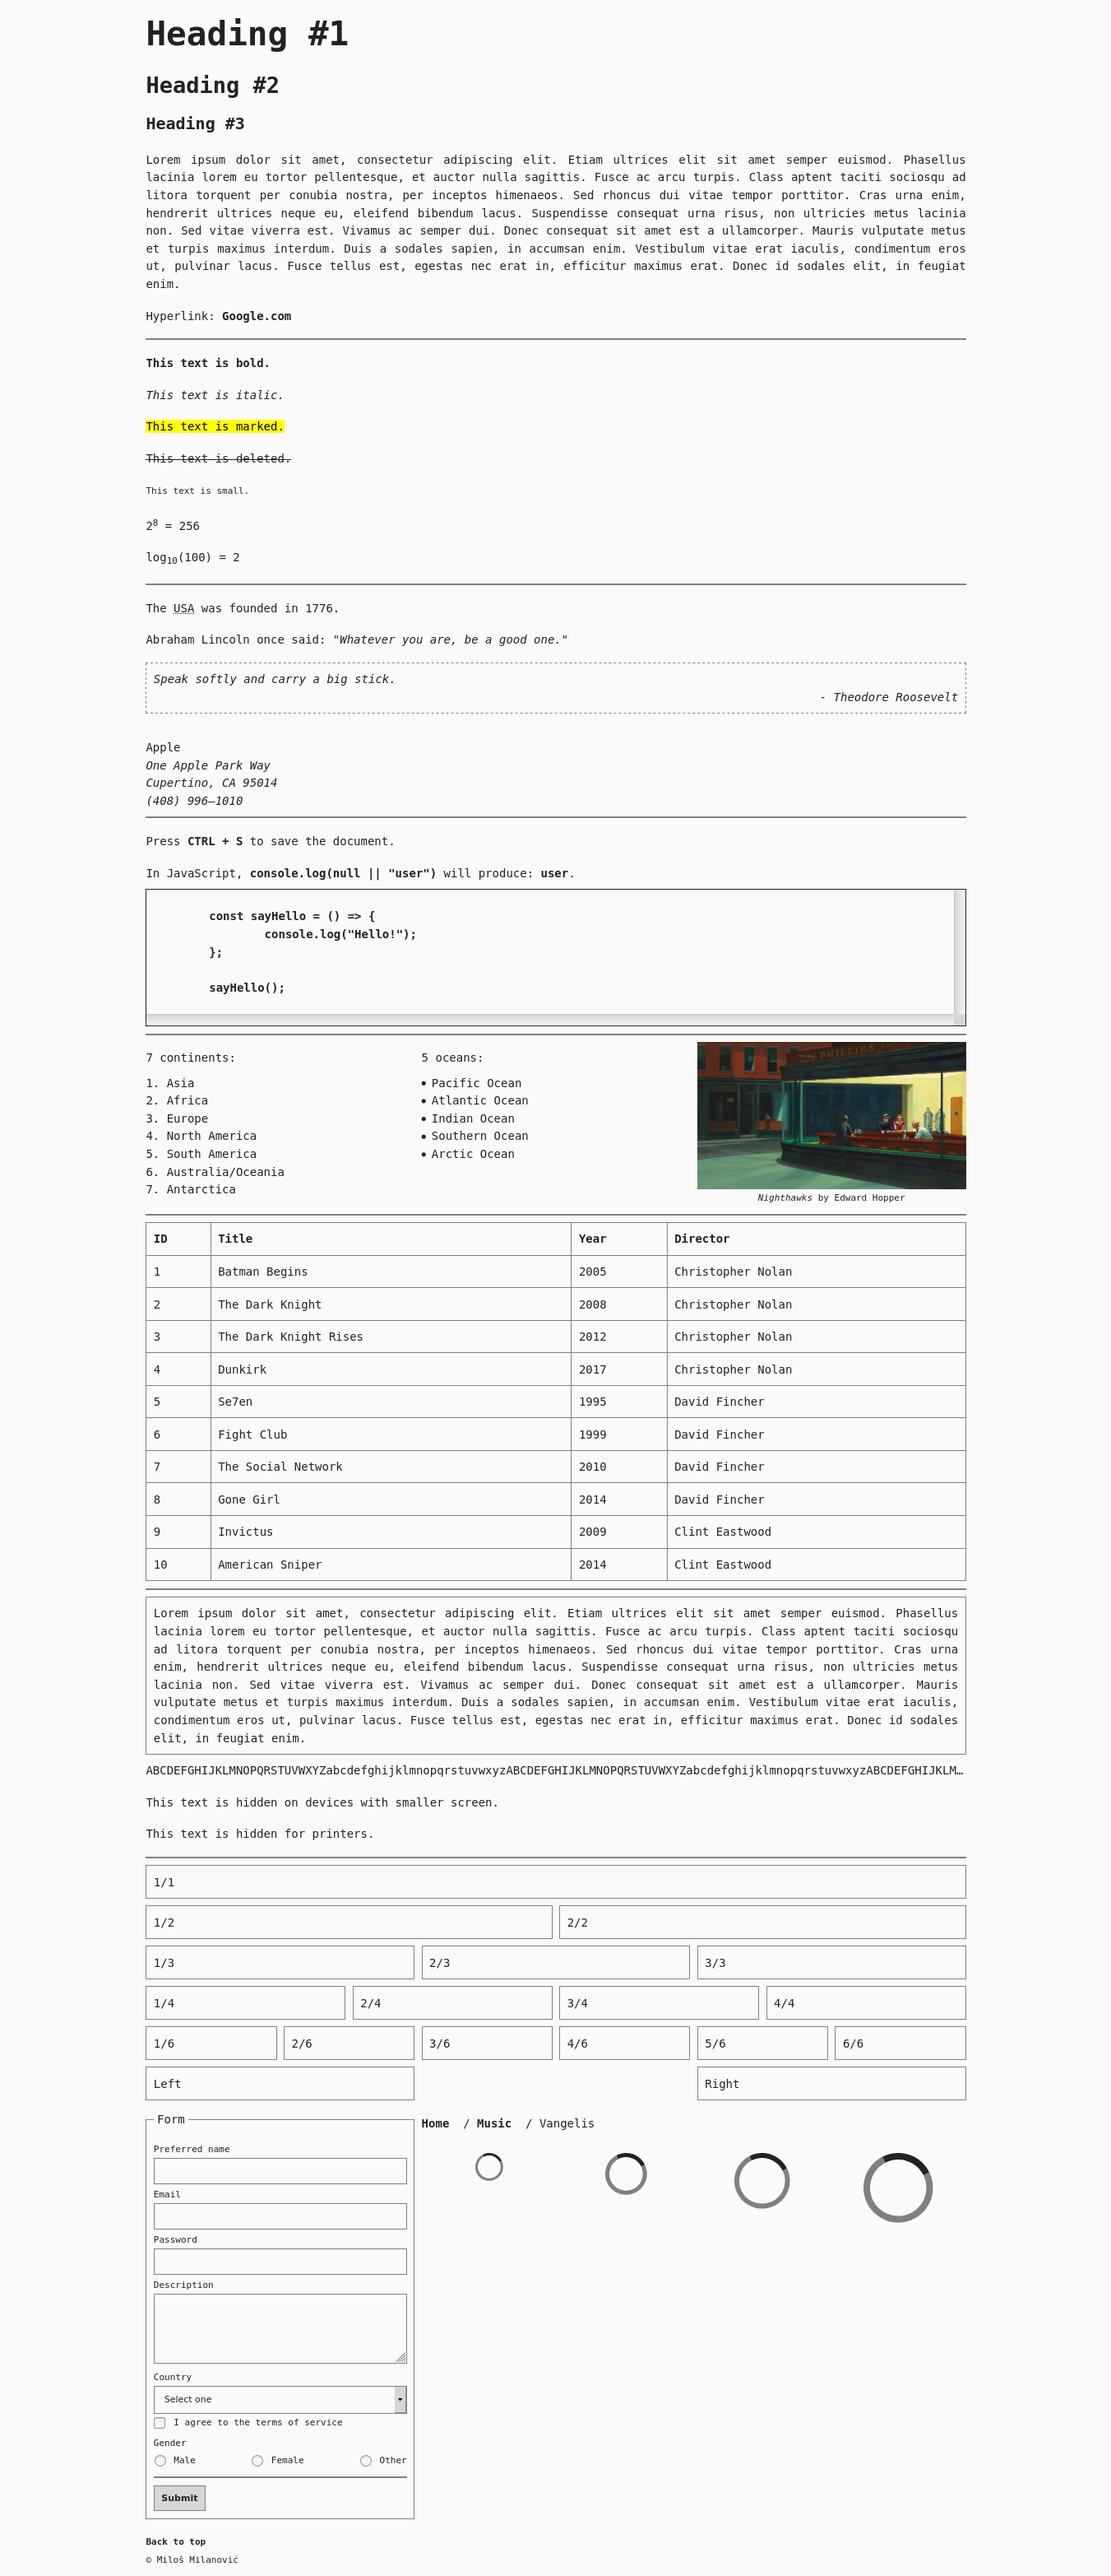
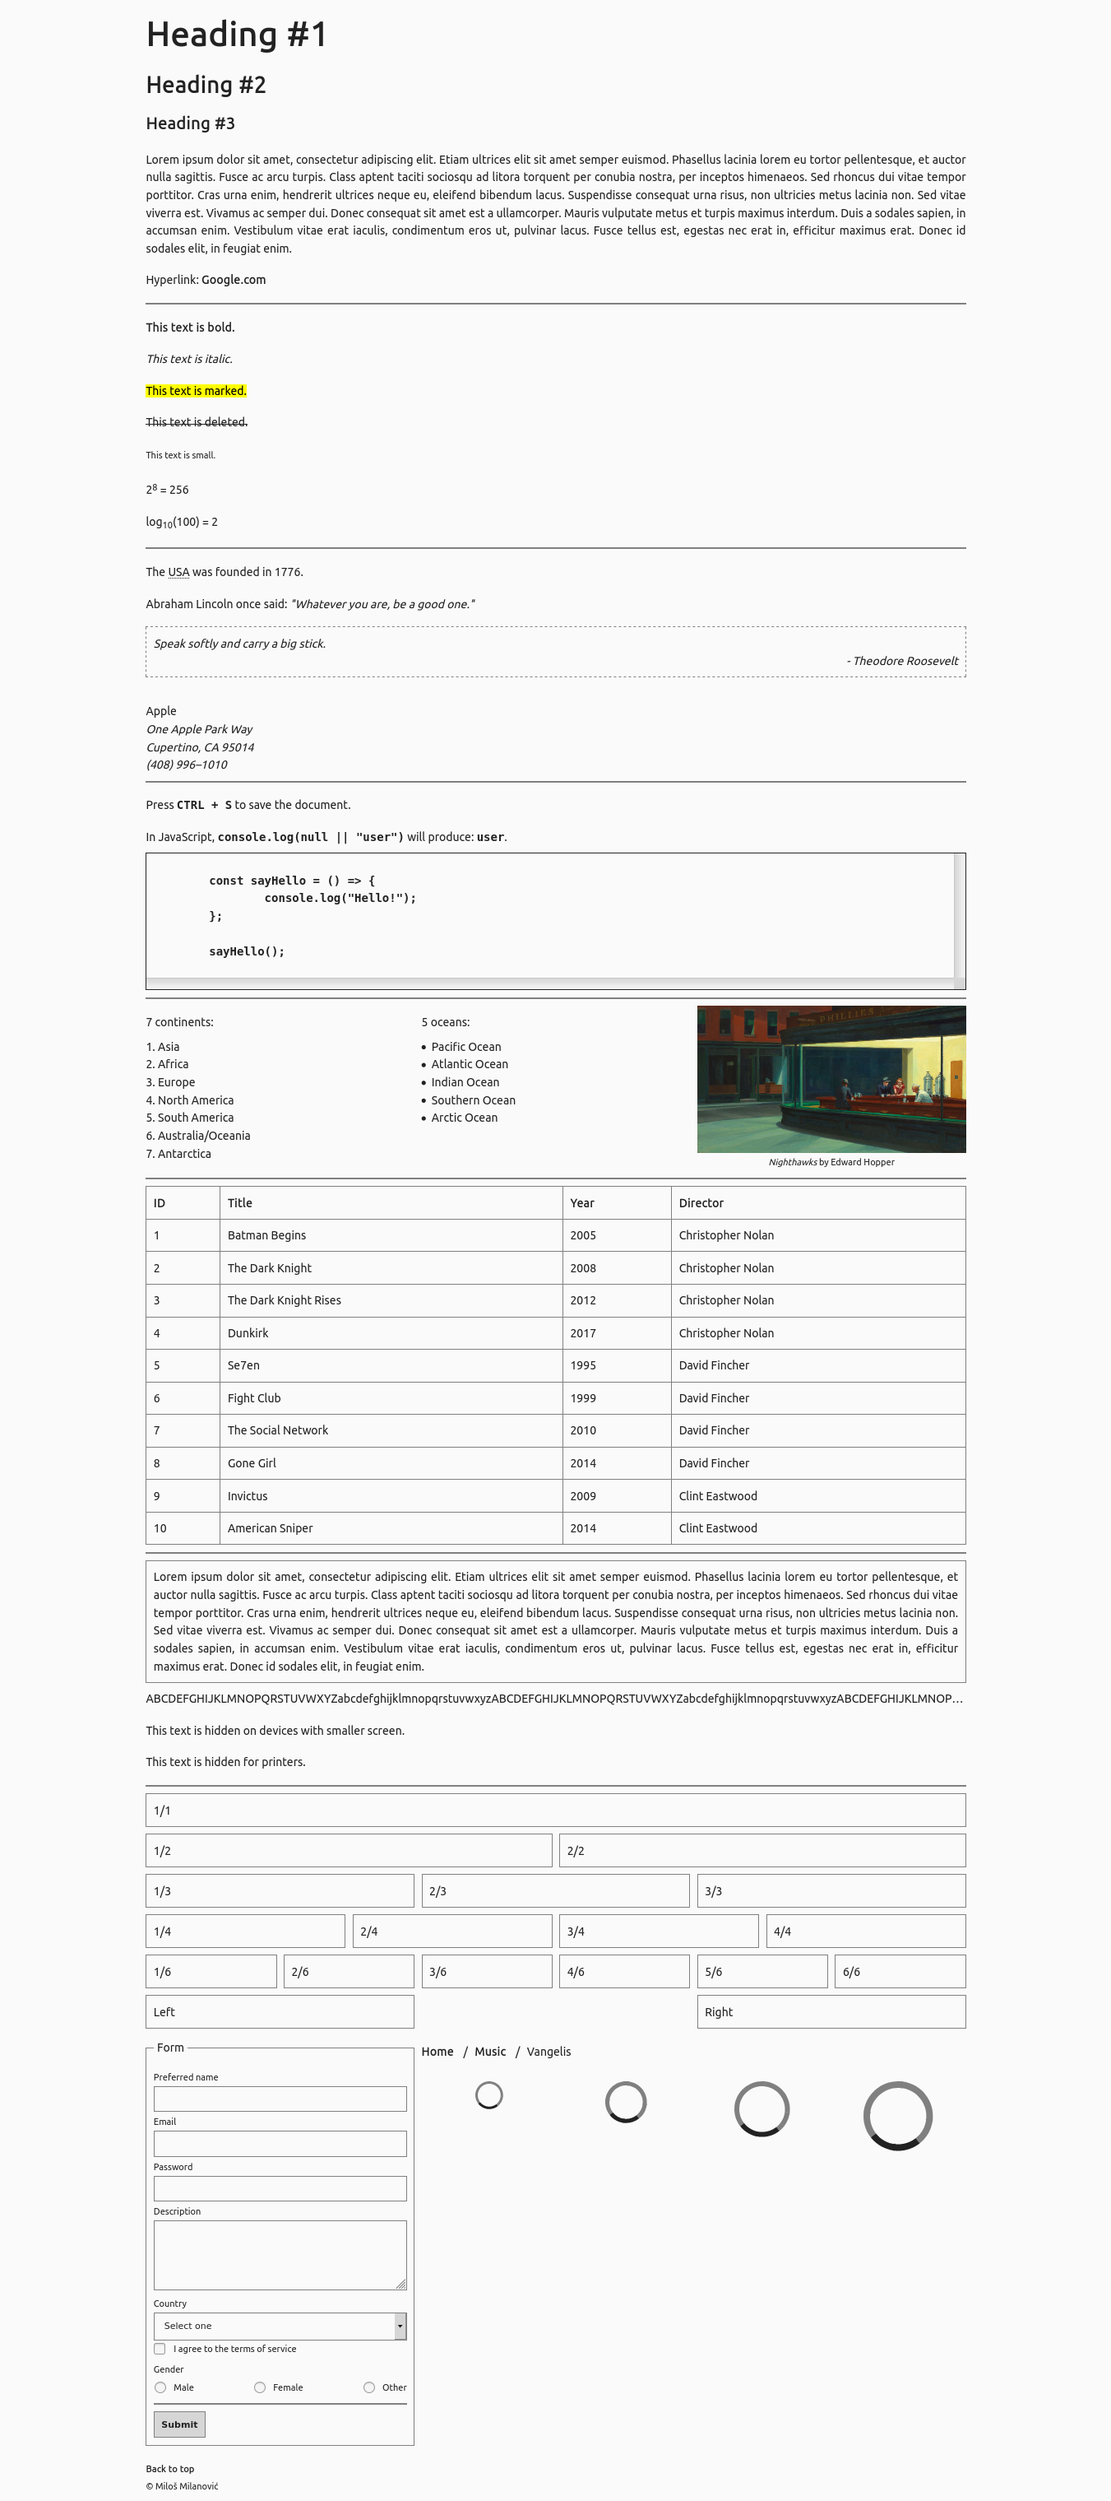
Switch to Google Fonts

diff --git a/dist/minimalizr.css b/dist/minimalizr.css
@@ -1,1 +1,1 @@
-::selection{background-color:#222;color:#fafafa}*{box-sizing:border-box;margin:0;padding:0}*:focus{outline:1px dashed gray;outline-offset:2px}html{font-size:100%;scroll-behavior:smooth}body{background-color:#fafafa;color:#222;font-family:monospace;font-size:1rem;line-height:1.6rem}h1,h2,h3{margin:10px 0}h1{font-size:3rem;line-height:4.8rem}h2{font-size:2rem;line-height:3.2rem}h3{font-size:1.5rem;line-height:2.4rem}p{padding:10px 0;text-align:justify}a{color:inherit;cursor:pointer;font-weight:bold;outline:none;text-decoration:none}a:active{outline:1px dotted gray;outline-offset:4px}a:hover{text-decoration:underline}strong{font-weight:bold}em{font-style:italic}mark{background-color:#ff0}del{text-decoration:line-through}small,sub,sup{font-size:smaller}sub{vertical-align:sub}sup{vertical-align:super}abbr[title]{text-decoration:underline dotted}q{font-style:italic}q::before,q::after{content:'"'}blockquote{border:1px dashed gray;font-style:italic;margin:10px 0;padding:10px;text-align:justify}blockquote div{text-align:right}address,cite{font-style:italic}kbd,samp,code,pre{font-family:monospace;font-weight:bold}.code{border:1px solid #222;padding:0 10px;overflow:scroll}.code pre{tab-size:2}ul,ol{list-style-position:inside}img{max-width:100%;vertical-align:middle}figure figcaption{font-size:smaller;text-align:center}.table-responsive{max-width:100%;overflow-x:auto}table{border-collapse:collapse;width:100%}th,td{border:1px solid gray;padding:10px;text-align:left}form{display:grid;grid-auto-flow:row;grid-gap:10px}label{font-size:smaller}label span{user-select:none}label span:first-child{display:inline-block}.checkbox label{cursor:pointer;display:inline-flex;align-items:center}.checkbox input[type=checkbox]{width:auto;margin-right:10px}.radiogroup{display:flex;justify-content:space-between;flex-wrap:wrap}.radiogroup>span{font-size:smaller;width:100%}.radiogroup label{cursor:pointer;user-select:none;display:inline-flex;align-items:center;flex-direction:row-reverse}.radiogroup input[type=radio]{width:auto;margin-right:10px}input,textarea,select{border:1px solid gray;background-color:#fafafa;padding:10px;width:100%;box-shadow:none;outline:none}input:focus:not([type=checkbox]):not([type=radio]),textarea:focus:not([type=checkbox]):not([type=radio]),select:focus:not([type=checkbox]):not([type=radio]){outline:2px solid gray;outline-offset:0}input:invalid,textarea:invalid,select:invalid{border-color:red}input:disabled,textarea:disabled,select:disabled{color:gray;cursor:not-allowed}textarea{height:100px;min-height:40px;max-height:300px;resize:vertical}fieldset{border:1px solid gray;padding:10px}legend{padding:5px}button{cursor:pointer;font-weight:bold;border:1px solid gray;color:#222;padding:10px;transition-property:background-color color;transition-duration:.1s;transition-timing-function:ease-in-out}button:hover:not(:disabled){background-color:#222;color:#fafafa}button:disabled{cursor:not-allowed}button:focus{outline:2px solid gray;outline-offset:0}hr{border:1px solid gray;margin:10px 0}footer{font-size:smaller}@media screen and (max-width: 768px){body{font-size:.9rem}}.container{width:1200px;max-width:100%;margin:0 auto}.container-fluid{width:100%}.container,.container-fluid{padding:0 10px}.row{display:grid;grid-template-columns:repeat(12, 1fr);margin:10px 0}.row-gapped{grid-gap:10px}.col-1{grid-column:span 1}.col-2{grid-column:span 2}.col-3{grid-column:span 3}.col-4{grid-column:span 4}.col-5{grid-column:span 5}.col-6{grid-column:span 6}.col-7{grid-column:span 7}.col-8{grid-column:span 8}.col-9{grid-column:span 9}.col-10{grid-column:span 10}.col-11{grid-column:span 11}.col-12{grid-column:span 12}.col-pull-right{grid-column-end:-1}@media screen and (max-width: 768px){.col-sm-1{grid-column:span 1}.col-sm-2{grid-column:span 2}.col-sm-3{grid-column:span 3}.col-sm-4{grid-column:span 4}.col-sm-5{grid-column:span 5}.col-sm-6{grid-column:span 6}.col-sm-7{grid-column:span 7}.col-sm-8{grid-column:span 8}.col-sm-9{grid-column:span 9}.col-sm-10{grid-column:span 10}.col-sm-11{grid-column:span 11}.col-sm-12{grid-column:span 12}}.bordered{border:1px solid gray}.padded{padding:10px}.text-left{text-align:left}.text-center{text-align:center}.text-right{text-align:right}.text-justify{text-align:justify}.text-truncate{overflow:hidden;text-overflow:ellipsis;white-space:nowrap}.no-scroll{overflow:hidden}ul.breadcrumbs{display:flex;list-style-type:none;user-select:none}ul.breadcrumbs li{padding:10px 0}ul.breadcrumbs li:not(:last-child)::after{content:" / ";display:inline-block;margin:0 10px}ul.breadcrumbs li:last-child a{cursor:initial;font-weight:normal}ul.breadcrumbs li:last-child a:hover{text-decoration:none}@keyframes spin{from{transform:rotate(0deg)}to{transform:rotate(360deg)}}.spinner{height:40px;width:40px}.spinner,.spinner-l,.spinner-xl,.spinner-xxl{border:4px solid gray;border-top:4px solid #222;border-radius:50%;display:block;animation-name:spin;animation-duration:1s;animation-timing-function:linear;animation-iteration-count:infinite;margin:10px auto;overflow:hidden}.spinner-l{height:60px;width:60px;border-width:6px}.spinner-xl{height:80px;width:80px;border-width:8px}.spinner-xxl{height:100px;width:100px;border-width:10px}@media screen and (max-width: 768px){.hide-on-sm{display:none}}@media print{.hide-on-print{display:none}}/*# sourceMappingURL=minimalizr.css.map */
+@import"https://fonts.googleapis.com/css2?family=Ubuntu&display=swap";body{font-family:"Ubuntu",sans-serif}::selection{background-color:#222;color:#fafafa}*{box-sizing:border-box;margin:0;padding:0}*:focus{outline:1px dashed gray;outline-offset:2px}html{font-size:100%;scroll-behavior:smooth}body{background-color:#fafafa;color:#222;font-size:1rem;line-height:1.6rem}h1,h2,h3{margin:10px 0}h1{font-size:3rem;line-height:4.8rem}h2{font-size:2rem;line-height:3.2rem}h3{font-size:1.5rem;line-height:2.4rem}p{padding:10px 0;text-align:justify}a{color:inherit;cursor:pointer;font-weight:bold;outline:none;text-decoration:none}a:active{outline:1px dotted gray;outline-offset:4px}a:hover{text-decoration:underline}strong{font-weight:bold}em{font-style:italic}mark{background-color:#ff0}del{text-decoration:line-through}small,sub,sup{font-size:smaller}sub{vertical-align:sub}sup{vertical-align:super}abbr[title]{text-decoration:underline dotted}q{font-style:italic}q::before,q::after{content:'"'}blockquote{border:1px dashed gray;font-style:italic;margin:10px 0;padding:10px;text-align:justify}blockquote div{text-align:right}address,cite{font-style:italic}kbd,samp,code,pre{font-family:monospace;font-weight:bold}.code{border:1px solid #222;padding:0 10px;overflow:scroll}.code pre{tab-size:2}ul,ol{list-style-position:inside}img{max-width:100%;vertical-align:middle}figure figcaption{font-size:smaller;text-align:center}.table-responsive{max-width:100%;overflow-x:auto}table{border-collapse:collapse;width:100%}th,td{border:1px solid gray;padding:10px;text-align:left}form{display:grid;grid-auto-flow:row;grid-gap:10px}label{font-size:smaller}label span{user-select:none}label span:first-child{display:inline-block}.checkbox label{cursor:pointer;display:inline-flex;align-items:center}.checkbox input[type=checkbox]{width:auto;margin-right:10px}.radiogroup{display:flex;justify-content:space-between;flex-wrap:wrap}.radiogroup>span{font-size:smaller;width:100%}.radiogroup label{cursor:pointer;user-select:none;display:inline-flex;align-items:center;flex-direction:row-reverse}.radiogroup input[type=radio]{width:auto;margin-right:10px}input,textarea,select{border:1px solid gray;background-color:#fafafa;padding:10px;width:100%;box-shadow:none;outline:none}input:focus:not([type=checkbox]):not([type=radio]),textarea:focus:not([type=checkbox]):not([type=radio]),select:focus:not([type=checkbox]):not([type=radio]){outline:2px solid gray;outline-offset:0}input:invalid,textarea:invalid,select:invalid{border-color:red}input:disabled,textarea:disabled,select:disabled{color:gray;cursor:not-allowed}textarea{height:100px;min-height:40px;max-height:300px;resize:vertical}fieldset{border:1px solid gray;padding:10px}legend{padding:5px}button{cursor:pointer;font-weight:bold;border:1px solid gray;color:#222;padding:10px;transition-property:background-color color;transition-duration:.1s;transition-timing-function:ease-in-out}button:hover:not(:disabled){background-color:#222;color:#fafafa}button:disabled{cursor:not-allowed}button:focus{outline:2px solid gray;outline-offset:0}hr{border:1px solid gray;margin:10px 0}footer{font-size:smaller}@media screen and (max-width: 768px){body{font-size:.9rem}}.container{width:1200px;max-width:100%;margin:0 auto}.container-fluid{width:100%}.container,.container-fluid{padding:0 10px}.row{display:grid;grid-template-columns:repeat(12, 1fr);margin:10px 0}.row-gapped{grid-gap:10px}.col-1{grid-column:span 1}.col-2{grid-column:span 2}.col-3{grid-column:span 3}.col-4{grid-column:span 4}.col-5{grid-column:span 5}.col-6{grid-column:span 6}.col-7{grid-column:span 7}.col-8{grid-column:span 8}.col-9{grid-column:span 9}.col-10{grid-column:span 10}.col-11{grid-column:span 11}.col-12{grid-column:span 12}.col-pull-right{grid-column-end:-1}@media screen and (max-width: 768px){.col-sm-1{grid-column:span 1}.col-sm-2{grid-column:span 2}.col-sm-3{grid-column:span 3}.col-sm-4{grid-column:span 4}.col-sm-5{grid-column:span 5}.col-sm-6{grid-column:span 6}.col-sm-7{grid-column:span 7}.col-sm-8{grid-column:span 8}.col-sm-9{grid-column:span 9}.col-sm-10{grid-column:span 10}.col-sm-11{grid-column:span 11}.col-sm-12{grid-column:span 12}}.bordered{border:1px solid gray}.padded{padding:10px}.text-left{text-align:left}.text-center{text-align:center}.text-right{text-align:right}.text-justify{text-align:justify}.text-truncate{overflow:hidden;text-overflow:ellipsis;white-space:nowrap}.no-scroll{overflow:hidden}ul.breadcrumbs{display:flex;list-style-type:none;user-select:none}ul.breadcrumbs li{padding:10px 0}ul.breadcrumbs li:not(:last-child)::after{content:" / ";display:inline-block;margin:0 10px}ul.breadcrumbs li:last-child a{cursor:initial;font-weight:normal}ul.breadcrumbs li:last-child a:hover{text-decoration:none}@keyframes spin{from{transform:rotate(0deg)}to{transform:rotate(360deg)}}.spinner{height:40px;width:40px}.spinner,.spinner-l,.spinner-xl,.spinner-xxl{border:4px solid gray;border-top:4px solid #222;border-radius:50%;display:block;animation-name:spin;animation-duration:1s;animation-timing-function:linear;animation-iteration-count:infinite;margin:10px auto;overflow:hidden}.spinner-l{height:60px;width:60px;border-width:6px}.spinner-xl{height:80px;width:80px;border-width:8px}.spinner-xxl{height:100px;width:100px;border-width:10px}@media screen and (max-width: 768px){.hide-on-sm{display:none}}@media print{.hide-on-print{display:none}}/*# sourceMappingURL=minimalizr.css.map */

diff --git a/src/_base.scss b/src/_base.scss
@@ -1,3 +1,10 @@
+/* Font */
+@import url('https://fonts.googleapis.com/css2?family=Ubuntu&display=swap');
+
+body {
+	font-family: 'Ubuntu', sans-serif;
+}
+
 /* Root */
 ::selection {
 	background-color: map-get($colors, 'dark');
@@ -23,7 +30,6 @@ html {
 body {
 	background-color: map-get($colors, 'light');
 	color: map-get($colors, 'dark');
-	font-family: monospace;
 	font-size: 1rem;
 	line-height: 1.6rem;
 }
